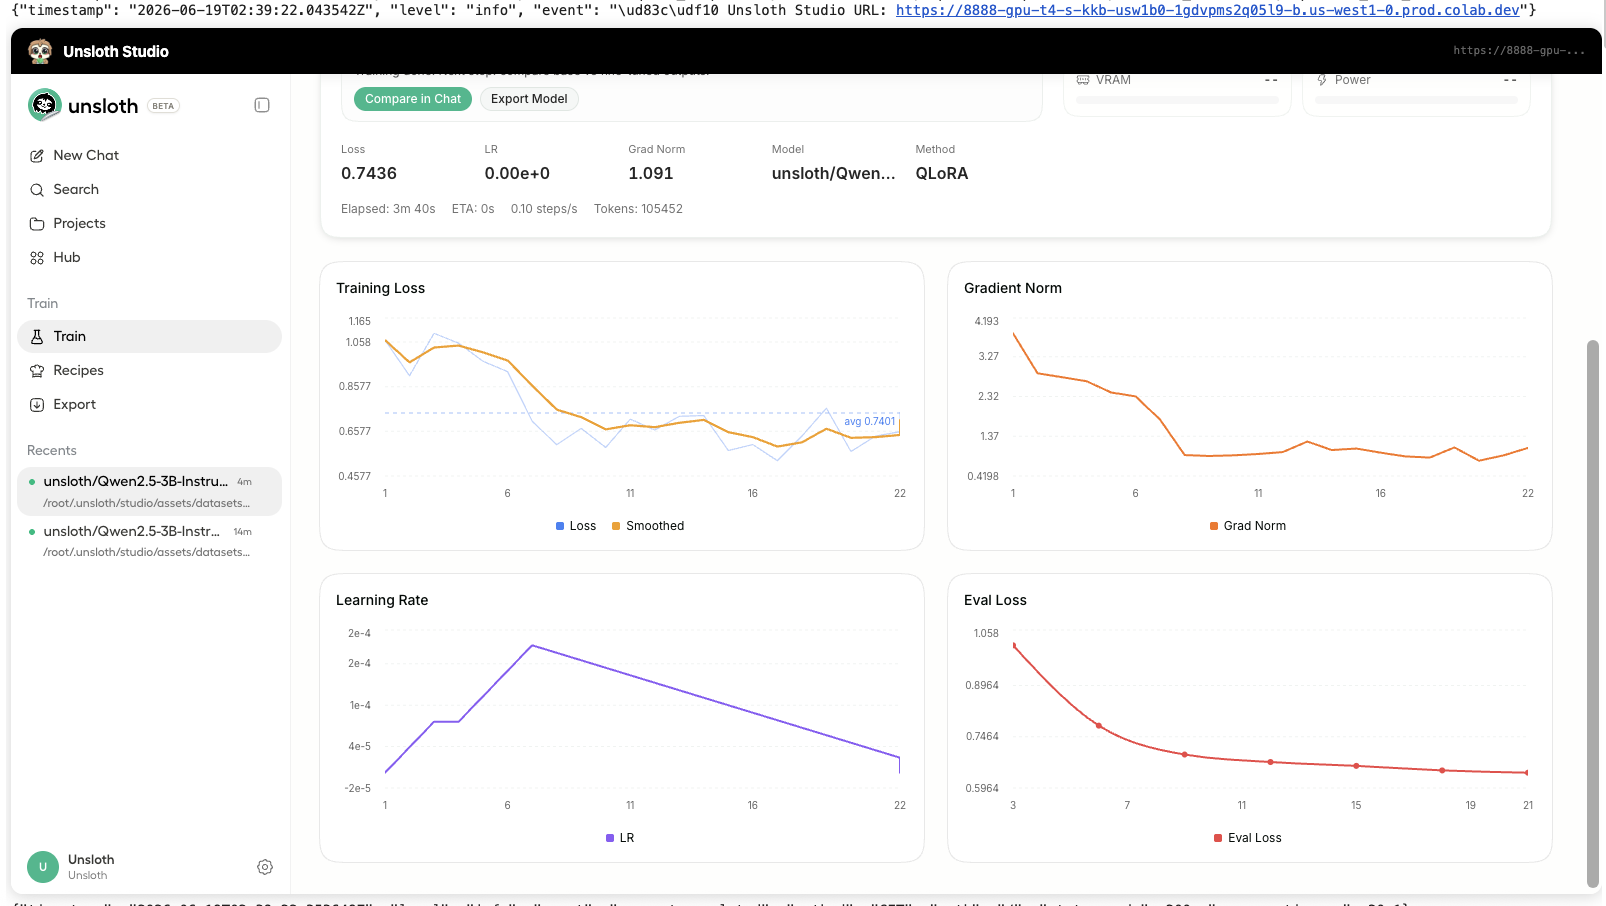
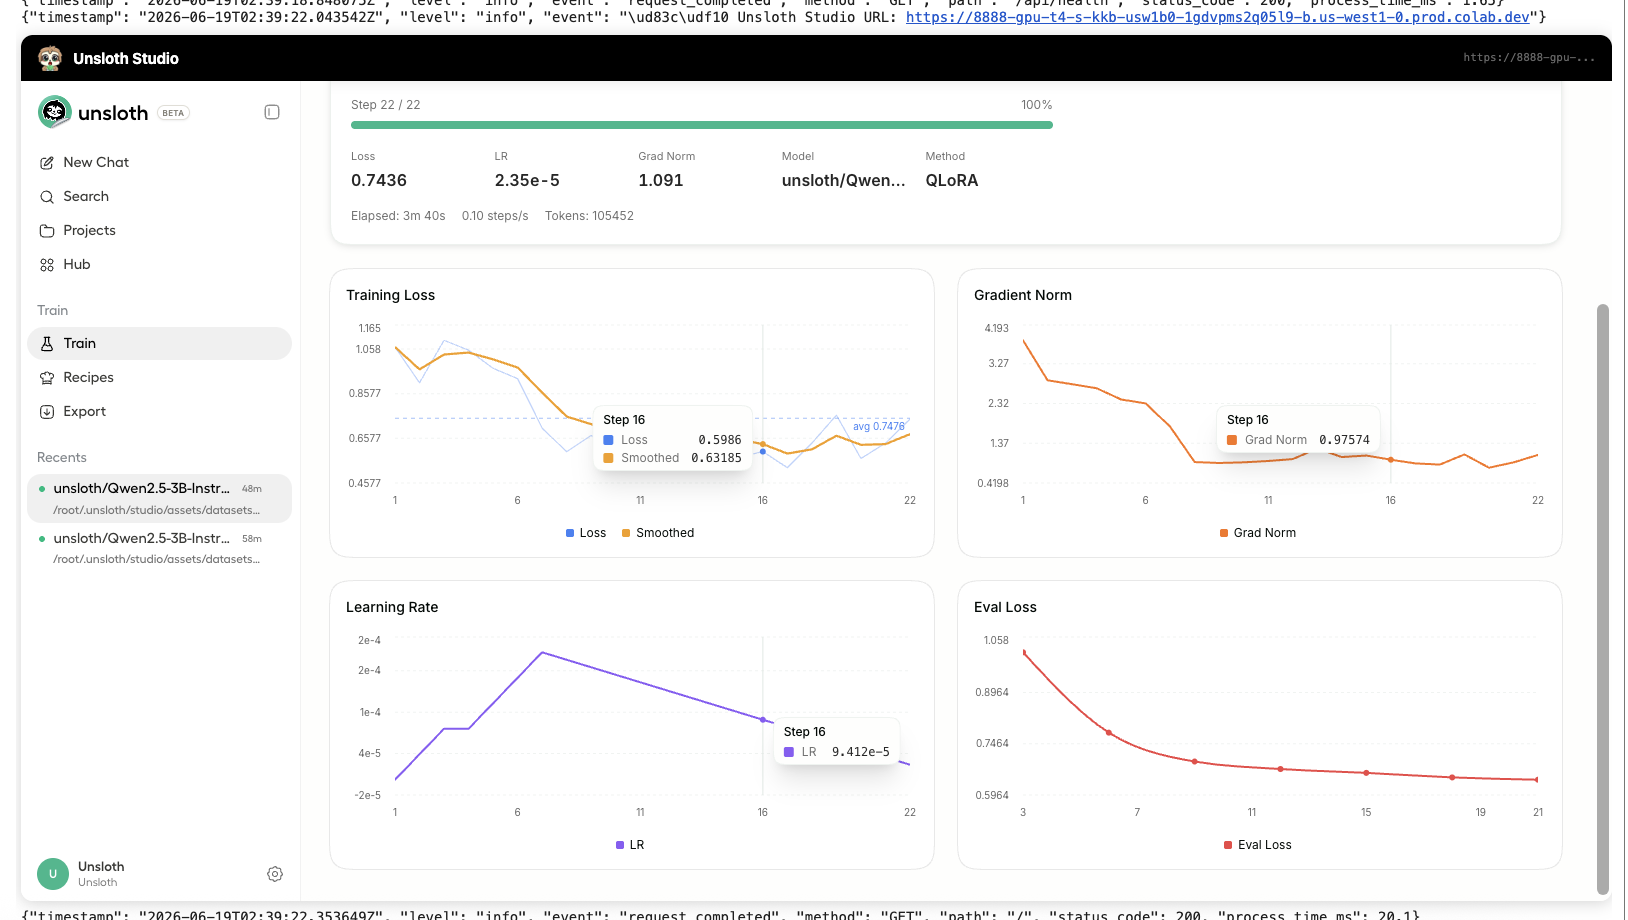
Add complete project screenshots

diff --git a/README.md b/README.md
@@ -188,8 +188,14 @@ Maslow passage에서는 base model이 더 의미 있는 질문을 생성했고, 
 
 - 데이터 생성 실행 화면: [`images/data-recipe-test-20.png`](images/data-recipe-test-20.png),
   [`images/data-recipe-full-run-1200.png`](images/data-recipe-full-run-1200.png)
+- 학습 완료 화면: [`images/training-complete.png`](images/training-complete.png)
 - 학습 및 eval loss 화면: [`images/training-eval-loss.png`](images/training-eval-loss.png)
-- Model Arena 비교 화면: [`images/model-arena-comparison.png`](images/model-arena-comparison.png)
+- Model Arena 비교 화면:
+  [`01`](images/model-arena-01-campus.png),
+  [`02`](images/model-arena-02-maslow.png),
+  [`03`](images/model-arena-03-uneven-bars.png),
+  [`04`](images/model-arena-04-dollar.png),
+  [`05`](images/model-arena-05-uranium.png)
 - Hugging Face export 화면: [`images/huggingface-export.png`](images/huggingface-export.png)
 - Base vs Fine-tuned 비교 결과: [`results/comparison.csv`](results/comparison.csv)
 

diff --git a/final_report.md b/final_report.md
@@ -109,7 +109,8 @@ Training loss는 초반보다 낮아졌고, evaluation loss도 약 1.0 수준에
 데이터셋이 작기 때문에 epoch를 더 늘리면 특정 질문 스타일에 과적합될 수 있다고 판단했다. 따라서
 1 epoch에서 멈추고, test split으로 base model과 fine-tuned model을 비교했다.
 
-학습 화면과 loss curve는 `images/training-eval-loss.png`에 저장했다.
+학습 완료 화면은 `images/training-complete.png`에, loss curve는 `images/training-eval-loss.png`에
+저장했다.
 
 ## 7. 구현 결과: Base Model vs Fine-tuned Model 비교
 
@@ -130,8 +131,9 @@ fine-tuned model을 비교했다. 평가 기준은 다음과 같다.
 | 답변 가능성 평균 점수 | 5.0 | 4.6 |
 | 자연스러움 평균 점수 | 4.6 | 4.8 |
 
-세부 결과는 `results/comparison.csv`에 기록했다.
-Model Arena 비교 화면은 `images/model-arena-comparison.png`에 저장했다.
+세부 결과는 `results/comparison.csv`에 기록했다. Model Arena 비교 화면은
+`images/model-arena-01-campus.png`부터 `images/model-arena-05-uranium.png`까지 5개 이미지로
+저장했다.
 
 정성적으로는 다음과 같은 결과가 관찰되었다.
 